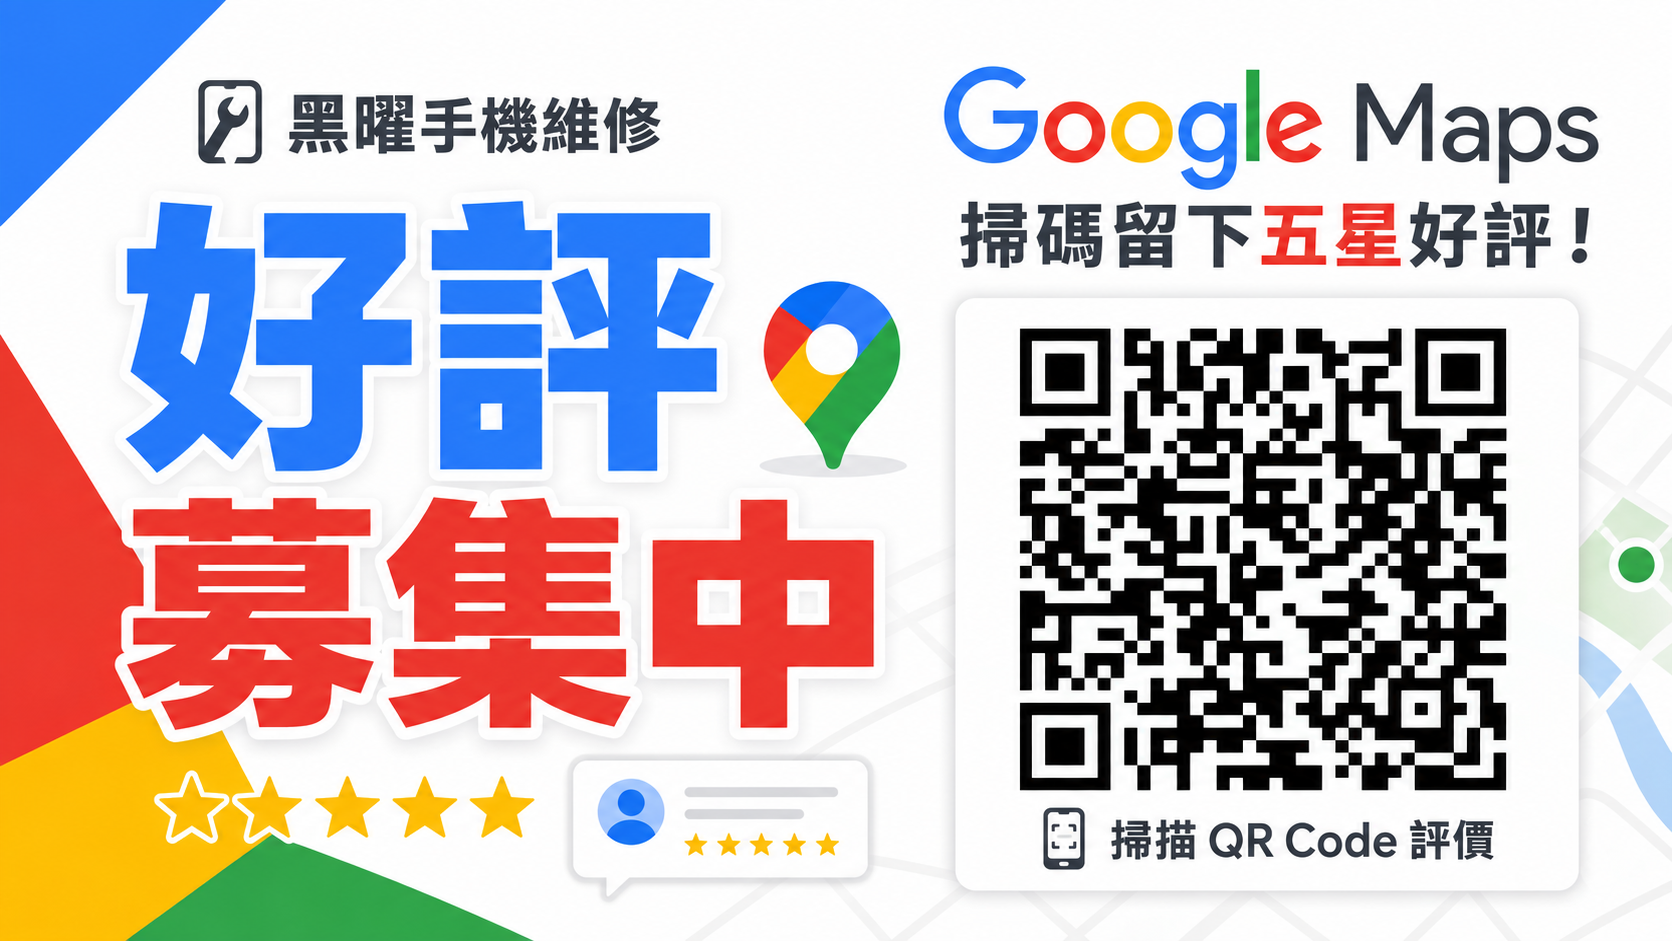
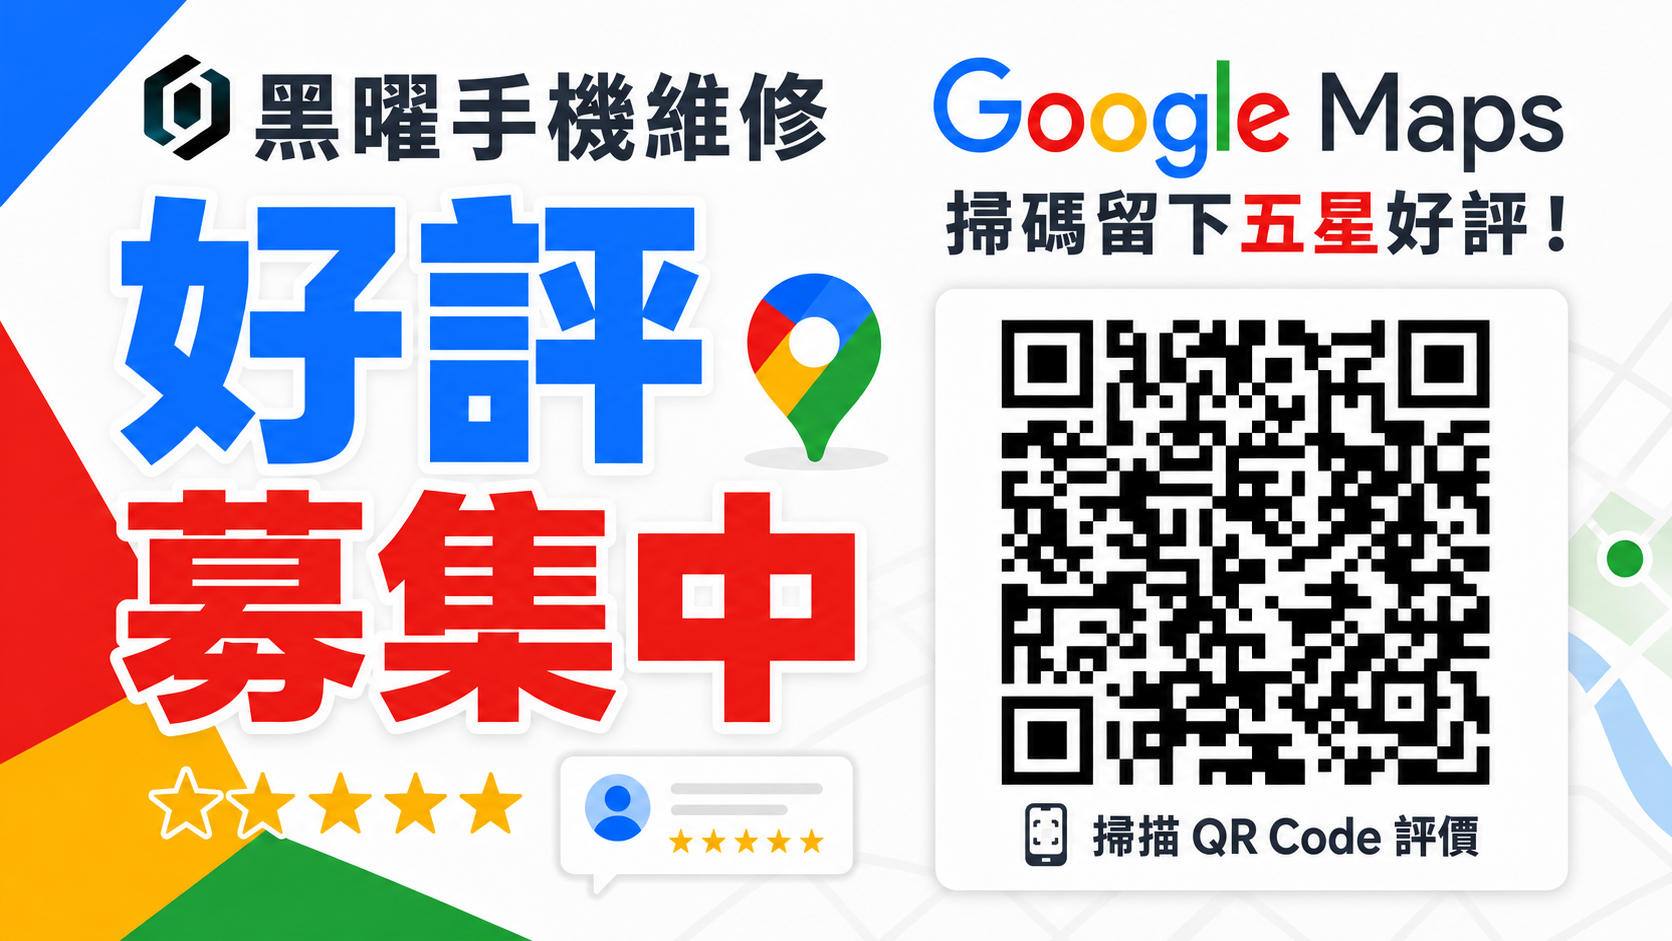
Release version 1.3.0

diff --git a/assets/app.js b/assets/app.js
@@ -147,15 +147,32 @@
           <div class="intro-content">
             <header class="site-header">
               <div class="header-copy">
-                <h1 data-role="studio-name">黑曜手機維修</h1>
-                <p class="service-scope">手機・平板（iPad／Android）・Apple Mac（桌機／筆電）・Windows 系統（桌機／筆電）・Dyson・Nintendo 維修</p>
+                <div class="brand-title-row">
+                  <img
+                    class="studio-round-logo"
+                    src="./assets/studio-round-logo.png"
+                    alt=""
+                    aria-hidden="true"
+                  />
+                  <div class="brand-title-copy">
+                    <h1 data-role="studio-name">黑曜手機維修</h1>
+                    <p class="service-scope">手機・平板（iPad／Android）・Apple Mac（桌機／筆電）・Windows 系統（桌機／筆電）・Dyson・Nintendo 維修</p>
+                  </div>
+                </div>
                 <p data-role="notice">
                   <span data-role="notice-main">選擇品牌、型號與維修項目，快速查詢參考報價。</span>
                   <span class="notice-desktop-break" aria-hidden="true"></span>
                   <span class="notice-warning">⚠本網頁報價為參考，實際價格均以現場報價為主⚠</span>
                 </p>
               </div>
-              <div class="version-badge" data-role="site-version">ver v?</div>
+              <div class="brand-meta">
+                <img
+                  class="obsidian-mark"
+                  src="./assets/obsidian-mark.png"
+                  alt="黑曜專屬圖案"
+                />
+                <div class="version-badge" data-role="site-version">ver v?</div>
+              </div>
               <div class="header-chip">
                 <span aria-hidden="true">NT$</span>
                 <span>公開透明報價</span>
@@ -269,34 +286,45 @@
                 <h2>聯絡方式</h2>
                 <div class="contact-grid">
                   <article class="contact-item">
-                    <p class="contact-label">維修聯絡電話</p>
+                    <p class="contact-label">主要聯絡電話</p>
                     <a data-role="phone-primary" href="tel:0966691696">0966-691-696</a>
                   </article>
                   <article class="contact-item">
-                    <p class="contact-label">第二聯絡電話</p>
+                    <p class="contact-label">備用聯絡電話</p>
                     <a data-role="phone-secondary" href="tel:0976900166">0976-900-166</a>
+                  </article>
+                  <article class="contact-item contact-item-wide vcard-contact-item">
+                    <div class="vcard-contact-copy">
+                      <p class="contact-label">手機通訊錄</p>
+                      <h3>儲存黑曜手機維修聯絡人</h3>
+                      <p>一次加入主要／備用電話、地址、LINE、Email 與官方網站。</p>
+                      <a
+                        class="vcard-save-button"
+                        href="./obsidian-phone-repair.vcf"
+                        aria-label="開啟並儲存黑曜手機維修聯絡人"
+                      >
+                        <span aria-hidden="true">↓</span>
+                        儲存黑曜聯絡人
+                      </a>
+                    </div>
+                    <a
+                      class="vcard-qr-link"
+                      href="./obsidian-phone-repair.vcf"
+                      aria-label="掃描或點擊儲存黑曜手機維修聯絡人"
+                    >
+                      <img
+                        src="./assets/vcard-contact-qr.svg"
+                        alt="黑曜手機維修聯絡人 QR Code"
+                      />
+                      <span>手機掃碼儲存</span>
+                    </a>
                   </article>
                   <article class="contact-item contact-item-wide line-contact-item">
                     <p class="contact-label">LINE 官方帳號</p>
                     <div class="line-contact-content">
                       <a
-                        class="social-image-link"
-                        data-role="line-link"
-                        target="_blank"
-                        rel="noopener noreferrer"
-                        hidden
-                      >
-                        <img
-                          class="line-add-friend-button"
-                          src="https://scdn.line-apps.com/n/line_add_friends/btn/zh-Hant.png"
-                          alt="加入好友"
-                          height="36"
-                          border="0"
-                        />
-                      </a>
-                      <a
                         class="line-poster-link"
-                        data-role="line-poster-link"
+                        data-role="line-link"
                         target="_blank"
                         rel="noopener noreferrer"
                         aria-label="掃描 QR Code 或點擊加入黑曜手機維修 LINE 官方帳號"
@@ -304,8 +332,8 @@
                       >
                         <img
                           class="line-friends-poster"
-                          src="./assets/line-friends-banner.jpg"
-                          alt="LINE Official Account 好友募集中，帳號 @200ysnhq"
+                          src="./assets/line-friends-banner.png"
+                          alt="黑曜手機維修 LINE 好友募集中，帳號 @ot_repair"
                         />
                       </a>
                       <a
@@ -1148,7 +1176,7 @@
     }
 
     const lineId = String(state.data?.metadata?.lineOaId || '').trim();
-    if (!/^@[a-z0-9]+$/i.test(lineId)) {
+    if (!/^@[a-z0-9._-]+$/i.test(lineId)) {
       return '';
     }
 

diff --git a/assets/styles.css b/assets/styles.css
@@ -119,14 +119,45 @@ select:disabled {
   position: relative;
 }
 
-.header-copy {
+.header-copy,
+.brand-title-copy {
   min-width: 0;
 }
 
-.version-badge {
+.brand-title-row {
+  display: flex;
+  align-items: center;
+  gap: 12px;
+}
+
+.studio-round-logo {
+  flex: 0 0 auto;
+  display: block;
+  width: 64px;
+  height: 64px;
+  object-fit: contain;
+}
+
+.brand-meta {
   grid-column: 2;
   align-self: start;
   justify-self: end;
+  display: flex;
+  align-items: center;
+  gap: 8px;
+}
+
+.obsidian-mark {
+  display: block;
+  width: 34px;
+  height: 34px;
+  object-fit: contain;
+  border-radius: 6px;
+}
+
+.version-badge {
+  display: inline-flex;
+  align-items: center;
   min-height: 28px;
   padding: 4px 10px;
   color: #3f4d49;
@@ -295,26 +326,77 @@ p {
   text-decoration: underline;
 }
 
-.contact-item .social-image-link {
+.vcard-contact-item {
+  display: grid;
+  grid-template-columns: minmax(0, 1fr) 148px;
+  align-items: center;
+  gap: 18px;
+}
+
+.vcard-contact-copy {
+  min-width: 0;
+}
+
+.vcard-contact-copy h3 {
+  margin: 0 0 5px;
+  font-size: 1rem;
+  line-height: 1.4;
+}
+
+.vcard-contact-copy > p:not(.contact-label) {
+  margin: 0 0 12px;
+  color: var(--ink-muted);
+  font-size: 0.86rem;
+  line-height: 1.6;
+}
+
+.vcard-save-button {
   display: inline-flex;
-  max-width: 100%;
-  line-height: 0;
+  align-items: center;
+  justify-content: center;
+  gap: 7px;
+  min-height: 42px;
+  padding: 9px 14px;
+  color: #ffffff !important;
+  background: var(--accent-strong);
+  border: 1px solid var(--accent-strong);
+  border-radius: 6px;
+  line-height: 1.25;
 }
 
-.contact-item .social-image-link:hover {
-  text-decoration: none;
+.vcard-save-button:hover {
+  background: var(--accent);
+  text-decoration: none !important;
 }
 
-.line-add-friend-button {
+.vcard-save-button span {
+  font-size: 1.1rem;
+  line-height: 1;
+}
+
+.vcard-qr-link {
+  display: grid;
+  gap: 6px;
+  justify-items: center;
+  color: var(--ink-muted) !important;
+  font-size: 0.72rem;
+  line-height: 1.3;
+}
+
+.vcard-qr-link:hover {
+  text-decoration: none !important;
+}
+
+.vcard-qr-link img {
   display: block;
-  width: auto;
-  max-width: 100%;
-  height: 36px;
+  width: 132px;
+  height: 132px;
+  object-fit: contain;
 }
 
 .line-contact-content {
   display: grid;
-  grid-template-columns: auto minmax(0, 1fr) minmax(0, 1.35fr);
+  grid-template-columns: minmax(0, 1fr) minmax(0, 1.35fr);
   align-items: center;
   gap: 14px;
 }
@@ -908,12 +990,22 @@ select:focus,
     padding-bottom: 28px;
   }
 
+  .studio-round-logo {
+    width: 92px;
+    height: 92px;
+  }
+
   .header-copy {
     grid-column: 1 / 3;
   }
 
-  .version-badge {
+  .brand-meta {
     grid-column: 3;
+  }
+
+  .obsidian-mark {
+    width: 42px;
+    height: 42px;
   }
 
   .site-header h1 {
@@ -947,11 +1039,16 @@ select:focus,
     grid-column: 1;
   }
 
-  .version-badge {
+  .brand-meta {
     position: absolute;
     top: 18px;
     right: 0;
     grid-column: auto;
+    flex-direction: column;
+  }
+
+  .brand-title-row {
+    padding-right: 112px;
   }
 
   .site-header p[data-role="notice"] {
@@ -962,12 +1059,16 @@ select:focus,
     width: 100%;
   }
 
+  .vcard-contact-item {
+    grid-template-columns: minmax(0, 1fr);
+  }
+
   .line-contact-content {
     grid-template-columns: minmax(0, 1fr);
   }
 
-  .line-add-friend-button {
-    width: auto;
+  .vcard-qr-link {
+    display: none;
   }
 
   .quote-line-action {
@@ -976,10 +1077,15 @@ select:focus,
 }
 
 @media (max-width: 420px) {
-  .version-badge {
+  .brand-meta {
     position: static;
     grid-column: 1;
     justify-self: end;
+    flex-direction: row;
+  }
+
+  .brand-title-row {
+    padding-right: 0;
   }
 }
 
@@ -992,7 +1098,7 @@ select:focus,
     grid-column: 1 / 5;
   }
 
-  .version-badge {
+  .brand-meta {
     grid-column: 5;
   }
 

diff --git a/index.html b/index.html
@@ -8,13 +8,13 @@
       content="黑曜維修報價查詢，支援手機、平板、Apple Mac、Desktop & Laptop、Dyson 與 Nintendo 維修項目搜尋。"
     />
     <title>黑曜維修報價查詢</title>
-    <link rel="icon" href="data:," />
-    <link rel="stylesheet" href="./assets/styles.css?v=1.2.2" />
+    <link rel="icon" type="image/png" href="./assets/obsidian-mark.png?v=1.3.0" />
+    <link rel="stylesheet" href="./assets/styles.css?v=1.3.0" />
   </head>
   <body>
     <div id="root"></div>
     <script src="./data/prices.js"></script>
     <script src="./data/version.js"></script>
-    <script src="./assets/app.js?v=1.2.2"></script>
+    <script src="./assets/app.js?v=1.3.0"></script>
   </body>
 </html>

diff --git a/data/prices.js b/data/prices.js
@@ -7,9 +7,9 @@ window.REPAIR_PRICE_DATA = {
     "facebookContact": "黑曜手機維修 Facebook",
     "facebookUrl": "https://facebook.com/OTRepair",
     "lineContact": "加入黑曜手機維修 LINE 官方帳號",
-    "lineUrl": "https://lin.ee/SMFc6si",
-    "lineDesktopUrl": "https://line.me/R/ti/p/@200ysnhq?oat_content=url&ts=06131329",
-    "lineOaId": "@200ysnhq",
+    "lineUrl": "https://lin.ee/9nBoUJo",
+    "lineDesktopUrl": "https://line.me/R/ti/p/@ot_repair",
+    "lineOaId": "@ot_repair",
     "warrantyDays": 90,
     "serviceScope": [
       "Apple iPhone / iPad / Mac 桌機與筆電",

diff --git a/data/version.js b/data/version.js
@@ -1,1 +1,1 @@
-window.REPAIR_SITE_VERSION = "1.2.2";
+window.REPAIR_SITE_VERSION = "1.3.0";
